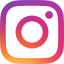
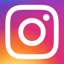
replace images

diff --git a/README.md b/README.md
@@ -1,9 +1,10 @@
 # crystaldown-theme
 
-Just the theme used on [crystaldown.de](https://crystaldown.de) and [0xreki.de](https://0xreki.de).
+Just the theme used on [0xreki.de](https://0xreki.de).
 
 ## Needed Jekyll Plugins
 
 - jekyll-last-modified-at
 - jekyll-regex-replace
 - jekyll-include-cache
+- jekyll-wns
